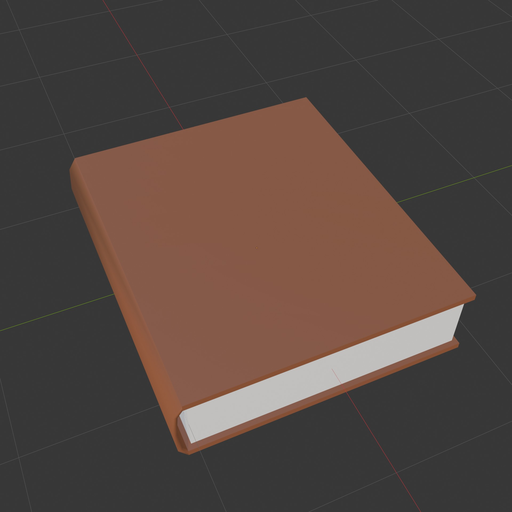
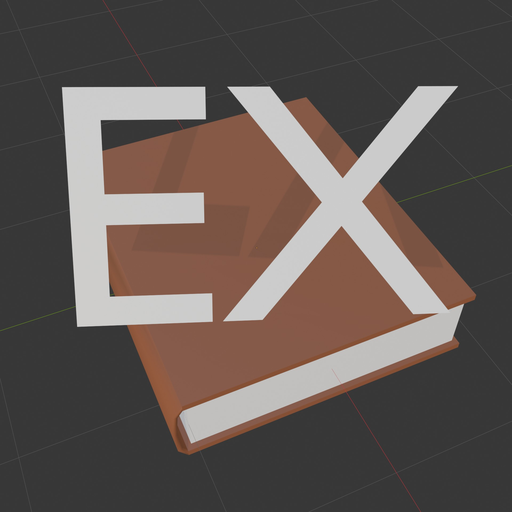
chore: brand experimental build as Ex+

Changed region(s): [[0.125, 0.1562, 0.9062, 0.6562]]

diff --git a/AchievementTracker/Windows/ConfigWindow.cs b/AchievementTracker/Windows/ConfigWindow.cs
@@ -18,7 +18,7 @@ public sealed class ConfigWindow : Window
     private string selectedPresetName = string.Empty;
 
     public ConfigWindow(Plugin plugin)
-        : base("Veela's Ledger Config##AchievementLedgerConfig")
+        : base("Veela's Achievment Ledger Ex+ Config##AchievementLedgerConfig")
     {
         this.plugin = plugin;
         this.SizeConstraints = new WindowSizeConstraints

diff --git a/AchievementTracker/Windows/TrackerWindow.cs b/AchievementTracker/Windows/TrackerWindow.cs
@@ -13,7 +13,7 @@ public sealed class TrackerWindow : Window
 {
     private readonly Plugin plugin;
     public TrackerWindow(Plugin plugin)
-        : base("Veela's Achievement Ledger##AchievementLedgerLive")
+        : base("Veela's Achievment Ledger Ex+##AchievementLedgerLive")
     {
         this.plugin = plugin;
         this.SizeConstraints = new WindowSizeConstraints

diff --git a/AchievementTracker/Plugin.cs b/AchievementTracker/Plugin.cs
@@ -83,7 +83,7 @@ public sealed class Plugin : IDalamudPlugin
 
         CommandManager.AddHandler(CommandName, new CommandInfo(this.OnCommand)
         {
-            HelpMessage = "Open Veela's Achievement Ledger.",
+            HelpMessage = "Open Veela's Achievment Ledger Ex+.",
         });
 
         PluginInterface.UiBuilder.Draw += this.WindowSystem.Draw;

diff --git a/README.md b/README.md
@@ -1,4 +1,4 @@
-# Veela's Achievement Ledger 
+# Veela's Achievment Ledger Ex+
 [![AI-DECLARATION: copilot](https://img.shields.io/badge/䷼%20AI--DECLARATION-copilot-fee2e2?labelColor=fee2e2)](https://ai-declaration.md)
 
 > [!WARNING]
